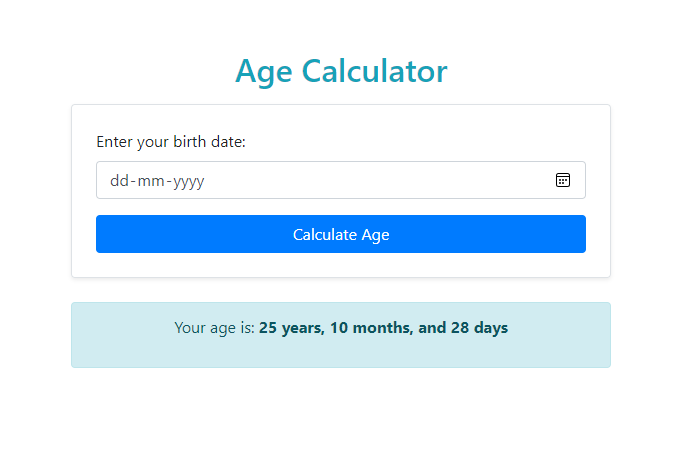
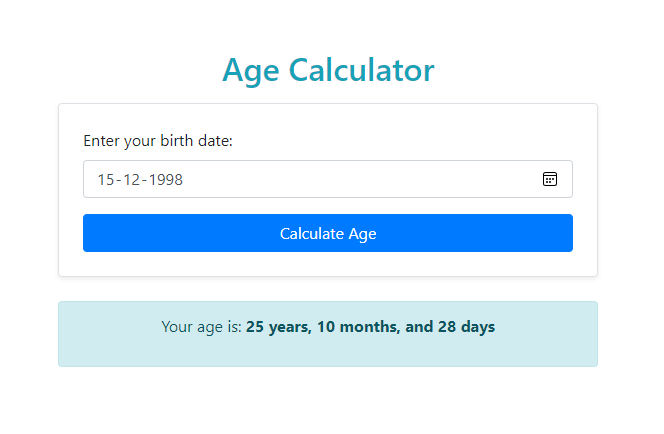
date value in input

Changed region(s): [[0.0904, 0.629, 0.9036, 0.8687], [0.1205, 0.2995, 0.8735, 0.5991], [0.3313, 0.1198, 0.6627, 0.2097]]

diff --git a/templates/index.html b/templates/index.html
@@ -22,6 +22,7 @@
                 id="birth_date"
                 name="birth_date"
                 class="form-control"
+                value="{{ birth_date_str }}"
                 required
               />
             </div>

diff --git a/app.py b/app.py
@@ -5,26 +5,26 @@ app = Flask(__name__)
 
 @app.route('/', methods=['GET', 'POST'])
 def index():
-    age_years, age_months, age_days = None, None, None
+    age_years, age_months, age_days, birth_date_str = None, None, None, None
     if request.method == 'POST':
         birth_date_str = request.form['birth_date']
         birth_date = datetime.strptime(birth_date_str, '%Y-%m-%d')
         today = datetime.today()
         
-        # Calculating years, months, and days
+        # Calculate years, months, and days
         age_years = today.year - birth_date.year
         age_months = today.month - birth_date.month
         age_days = today.day - birth_date.day
         
         # Adjust for negative days and months
         if age_days < 0:
-            age_days += 30  # Roughly adjust to the previous month
+            age_days += 30
             age_months -= 1
         if age_months < 0:
             age_months += 12
             age_years -= 1
 
-    return render_template('index.html', age_years=age_years, age_months=age_months, age_days=age_days)
+    return render_template('index.html', age_years=age_years, age_months=age_months, age_days=age_days, birth_date_str=birth_date_str)
 
 if __name__ == '__main__':
     app.run(debug=True)
